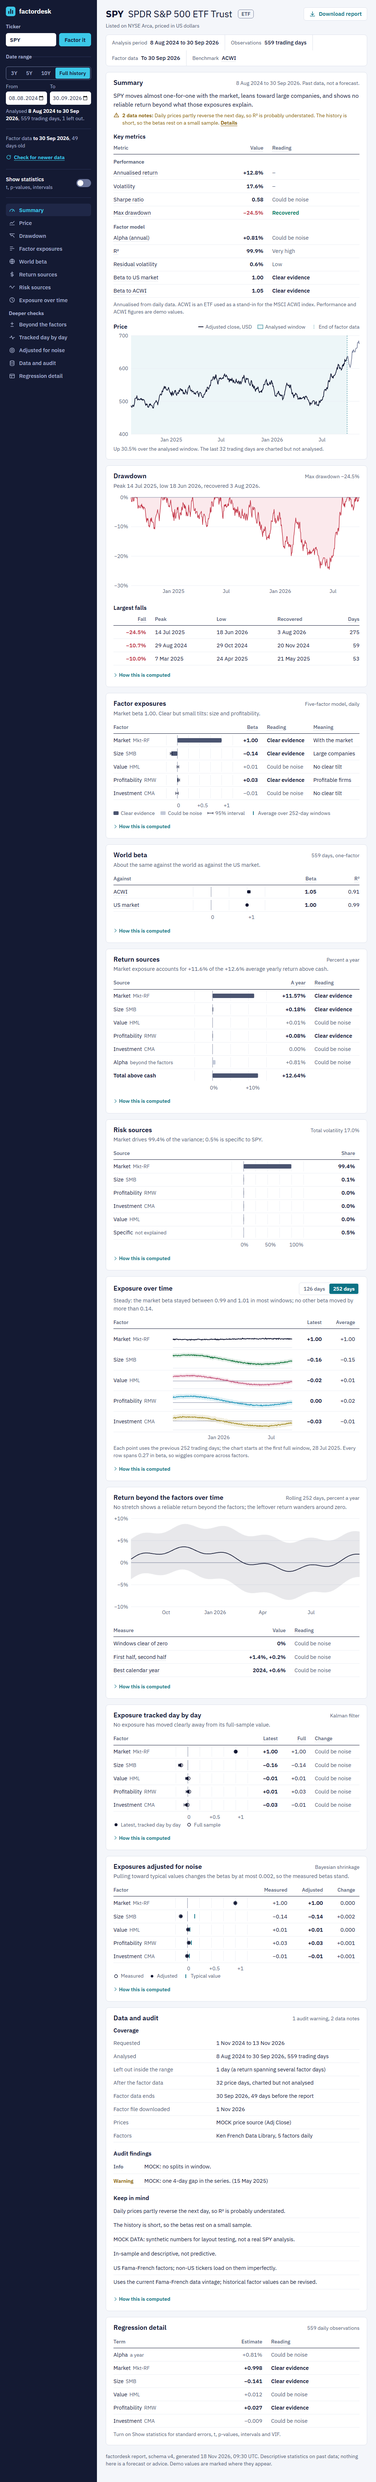
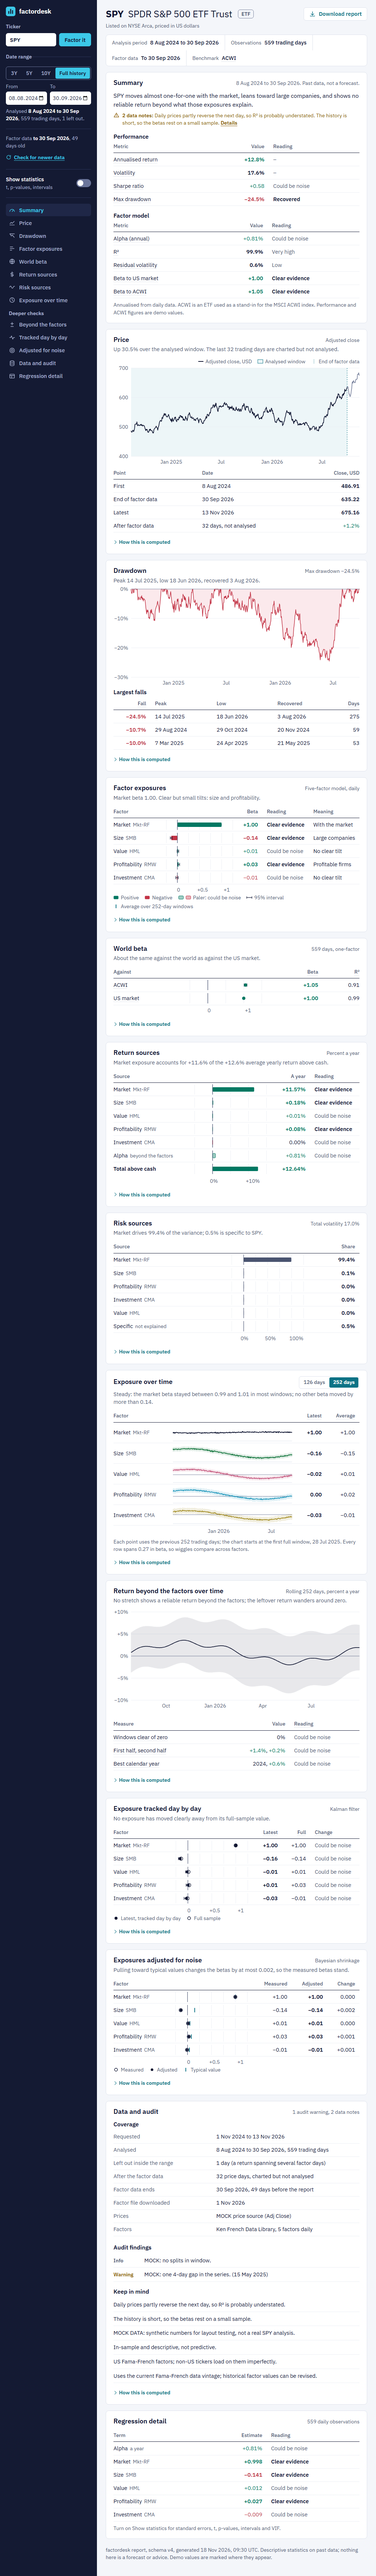
Re-shoot v4a and record the sign-colour decision in the v4 notes

diff --git a/docs/design/prototype/README-v4.md b/docs/design/prototype/README-v4.md
@@ -4,6 +4,45 @@ Written 2026-11-19, after the owner's review of rev 3: the layout looked templat
 and feel should be more professional and less dispersed. Two variants from one generator so the
 owner can choose. Rev 3 files (`*-v3*`) are unchanged.
 
+## Decision, 2026-11-19: v4a with sign colour
+
+The owner chose v4a and asked for red and green back ("I still want red/green colours"). v4a now:
+
+- **Price | Drawdown pair** (from v4b) directly below the Summary. To avoid charting the price
+  twice, the Summary drops its own price chart and sets the key metrics as two side-by-side tables,
+  Performance and Factor model (stacked under 1280 px, and under 1680 px when statistics are on).
+  The first screen at 1440 x 900 still shows the verdict, every key metric and the top of both
+  charts.
+- **Sign colour.** Signed returns and estimates are green #007862 when positive and red #C23345
+  when negative, always with an explicit + or minus: key metrics Annualised return, Sharpe ratio,
+  Max drawdown, Alpha (annual), Beta to US market and Beta to ACWI; the after-factor-data change in
+  Price; Largest falls; Factor exposures bars and betas; World beta values and dots; Return sources
+  bars, values and total; the residual figures; Regression detail estimates. The colour follows the
+  printed sign, so a value that rounds to 0.00% stays ink.
+- **Evidence weight.** Clear evidence: full-hue bar, value at weight 600. Could be noise: the
+  value keeps the full hue at weight 400, and the bar is a 38% tint (#9ECCC3, #E8B1B8) outlined
+  1 px in the full hue, because the tint alone is under 3:1 on white. Reading words stay ink, so
+  colour is never the only signal. Bars are 12 px with a 2 px radius; the zero line is drawn above
+  them.
+- **Kept neutral on purpose:** volatility, residual volatility, R², observations, risk-source
+  shares (shares are not good or bad), standard errors, t and p, and the diagnostic panels
+  (exposure over time, Kalman, shrunk), which compare estimates rather than report a signed return.
+- **Checks** (`python docs/design/prototype/colour_v4.py`, Machado 2009 at severity 1.0, OKLab x100):
+
+| Pair | Normal | Protanopia | Deuteranopia | Tritanopia | Floor |
+|---|---|---|---|---|---|
+| #007862 / #C23345 (text, full bars, tint outlines) | 27.2 | 8.9 | 8.5 | 31.3 | 15 / 8 |
+| #9ECCC3 / #E8B1B8 (tint fills, information only) | 11.4 | 4.2 | 2.3 | 14.5 | carried by the outlines |
+
+| Text or mark | On white | On page #F4F6FA | On row hover #F7F8FB |
+|---|---|---|---|
+| Green #007862 | 5.44 | 5.02 | 5.12 |
+| Red #C23345 | 5.45 | 5.04 | 5.13 |
+| Tint bars #9ECCC3, #E8B1B8 | 1.77, 1.84 (outlined at 5.44, 5.45) | | |
+
+v4b is unchanged in design (its colours are scoped out); it regenerates from the same code, so its
+world-beta values now carry a + sign. Its screenshots are from the first v4 round.
+
 | File | What it is |
 |---|---|
 | `build_prototype_v4.py` | Generator. `--variant a` or `b` (default both), `--on stats,menu,win126`, `--out PATH` |
@@ -12,6 +51,7 @@ owner can choose. Rev 3 files (`*-v3*`) are unchanged.
 | `report-v4b.html` | Variant b, compact dashboard |
 | `shoot_v4.py` | Screenshots (`shot_v4a_*`, `shot_v4b_*`) and `measure` (horizontal overflow check) |
 | `preflight_v4.py` | Mechanical slop and contrast pre-flight over the CSS and both pages |
+| `colour_v4.py` | Sign-colour contrast and colour-blind separation check |
 | `PRODUCT-v4.md` | Product context this round was built against (inferred, see the last section) |
 
 ```
@@ -23,6 +63,8 @@ python docs/design/prototype/preflight_v4.py
 Same mock fixture, same plain-language rules and demo values as rev 3 (imported, not copied).
 
 ## The two variants
+
+The descriptions below are the first v4 round; v4a has since changed as recorded above.
 
 **v4a, tearsheet.** Title row (ticker, name, type badge, Download report), then an analysis bar
 (analysis period, observations, factor data date, benchmark ACWI), then one Summary panel: the
